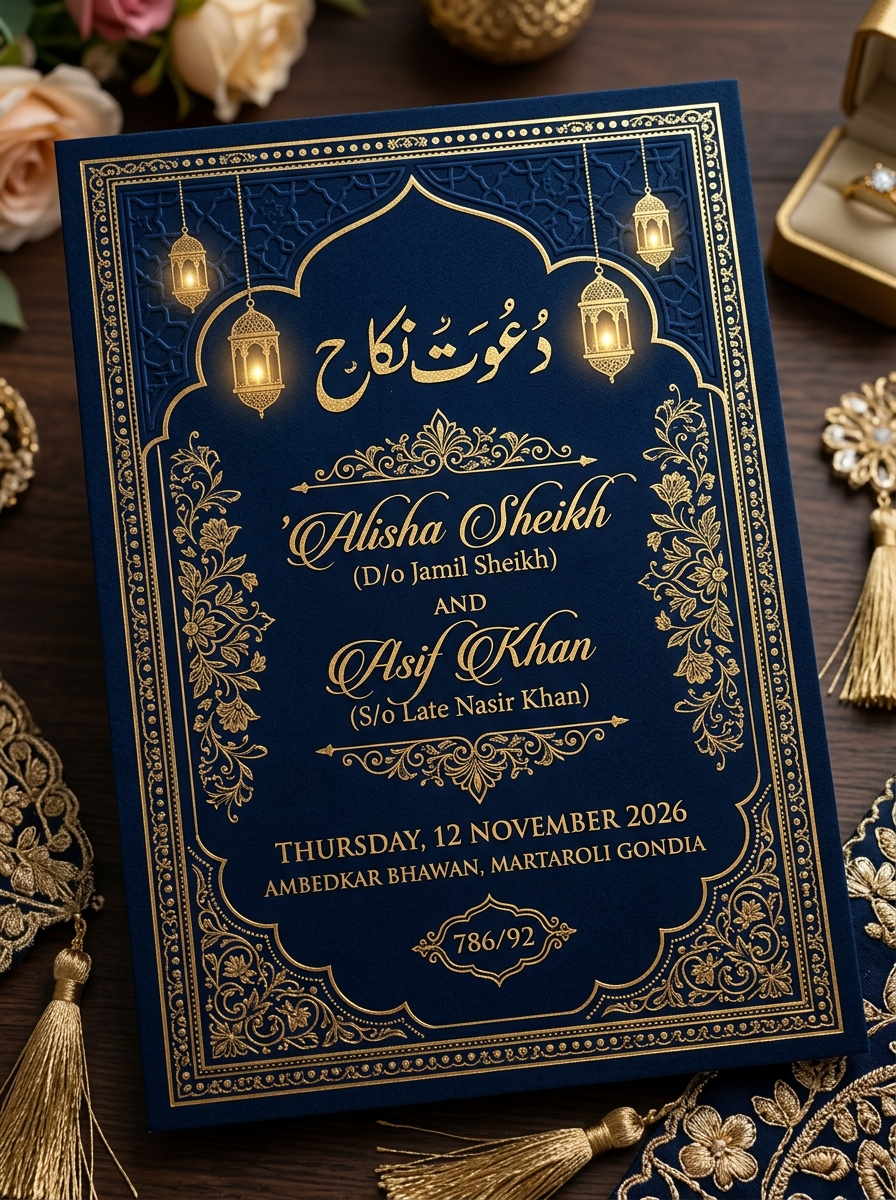
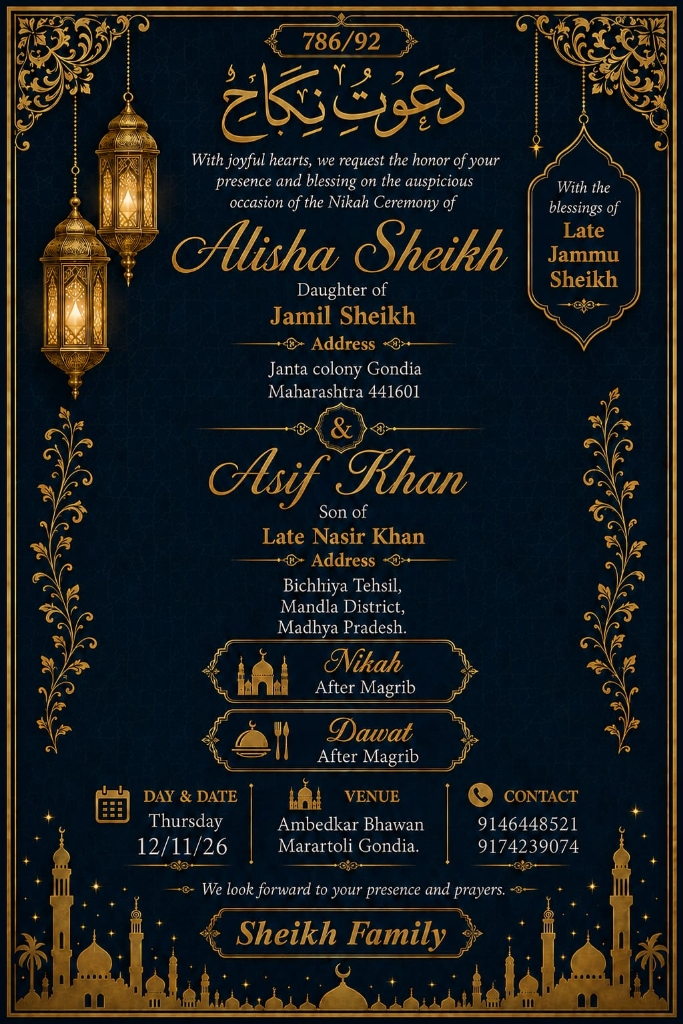
Add exact uploaded invitation card, remove music, fix mobile QR code, add invitation card download options

diff --git a/src/components/ShareSection.jsx b/src/components/ShareSection.jsx
@@ -1,6 +1,6 @@
 import React, { useState } from 'react';
 import { motion } from 'framer-motion';
-import { Share2, QrCode, Copy, Check, MessageCircle, Sparkles } from 'lucide-react';
+import { Share2, QrCode, Copy, Check, MessageCircle, Download } from 'lucide-react';
 import { QRCodeSVG } from 'qrcode.react';
 
 export default function ShareSection({ data, onShare }) {
@@ -52,12 +52,21 @@ export default function ShareSection({ data, onShare }) {
             </p>
 
             <div className="pt-2 space-y-3">
+              <a
+                href="/card.jpg"
+                download="Nikah_Invitation_Card_Alisha_Asif.jpg"
+                className="w-full py-3.5 px-6 rounded-full bg-gradient-to-r from-[#d4af37] via-[#f3e5ab] to-[#c59b27] text-[#060b19] font-sans-ui text-xs font-bold uppercase tracking-wider hover:scale-102 transition-all flex items-center justify-center gap-2 cursor-pointer shadow-md"
+              >
+                <Download className="w-4 h-4" />
+                Download Invitation Card
+              </a>
+
               <button
                 onClick={onShare}
-                className="w-full py-3.5 px-6 rounded-full bg-[#d4af37] text-[#060b19] font-sans-ui text-xs font-bold uppercase tracking-wider hover:bg-[#f3e5ab] transition-all flex items-center justify-center gap-2 cursor-pointer shadow-md"
+                className="w-full py-3.5 px-6 rounded-full bg-[#0a1128] border border-[#d4af37]/50 text-[#f3e5ab] font-sans-ui text-xs font-bold uppercase tracking-wider hover:bg-[#d4af37]/20 transition-all flex items-center justify-center gap-2 cursor-pointer shadow-md"
               >
-                <Share2 className="w-4 h-4" />
-                Share Invitation Link
+                <Share2 className="w-4 h-4 text-[#d4af37]" />
+                Share Website Link
               </button>
 
               <a
@@ -72,10 +81,10 @@ export default function ShareSection({ data, onShare }) {
 
               <button
                 onClick={copyUrl}
-                className="w-full py-3 px-6 rounded-full bg-[#0a1128] border border-[#d4af37]/40 text-[#f3e5ab] font-sans-ui text-xs font-semibold uppercase tracking-wider hover:bg-[#d4af37]/20 transition-all flex items-center justify-center gap-2 cursor-pointer"
+                className="w-full py-3 px-6 rounded-full bg-[#0a1128] border border-[#d4af37]/40 text-[#e2d8c3] font-sans-ui text-xs font-semibold uppercase tracking-wider hover:text-[#d4af37] transition-all flex items-center justify-center gap-2 cursor-pointer"
               >
                 {copied ? <Check className="w-4 h-4 text-green-400" /> : <Copy className="w-4 h-4 text-[#d4af37]" />}
-                {copied ? "Link Copied!" : "Copy Website Link"}
+                {copied ? "Link Copied!" : "Copy Link Text"}
               </button>
             </div>
           </motion.div>
@@ -96,20 +105,21 @@ export default function ShareSection({ data, onShare }) {
               Scan QR Code
             </h3>
 
-            {/* QR Code Container */}
-            <div className="p-4 rounded-2xl bg-white max-w-[200px] mx-auto border-2 border-[#d4af37] shadow-inner">
+            {/* Mobile Responsive High Visibility QR Code Container */}
+            <div className="w-44 h-44 sm:w-52 sm:h-52 mx-auto bg-white p-3 rounded-2xl flex items-center justify-center border-2 border-[#d4af37] shadow-xl overflow-hidden">
               <QRCodeSVG
                 value={currentUrl}
-                size={160}
+                width="100%"
+                height="100%"
                 fgColor="#060b19"
                 bgColor="#FFFFFF"
                 level="H"
-                className="mx-auto"
+                includeMargin={true}
               />
             </div>
 
-            <p className="text-[11px] text-[#e2d8c3]/70 font-sans-ui">
-              Point mobile camera at QR code to instantly open website
+            <p className="text-[11px] text-[#e2d8c3]/80 font-sans-ui pt-1">
+              Scan with mobile phone camera to open invitation website
             </p>
           </motion.div>
         </div>

diff --git a/src/components/Hero.jsx b/src/components/Hero.jsx
@@ -1,6 +1,6 @@
 import React from 'react';
 import { motion } from 'framer-motion';
-import { Calendar, MapPin, Clock, Heart, Sparkles, ChevronDown } from 'lucide-react';
+import { Calendar, MapPin, Clock, Heart, Sparkles, ChevronDown, Download } from 'lucide-react';
 
 export default function Hero({ data }) {
   const scrollToSection = (id) => {
@@ -123,18 +123,20 @@ export default function Hero({ data }) {
           transition={{ delay: 0.6, duration: 0.6 }}
           className="flex flex-wrap items-center justify-center gap-4 mt-8"
         >
-          <button
-            onClick={() => scrollToSection('#venue')}
-            className="px-8 py-3.5 rounded-full bg-gradient-to-r from-[#d4af37] via-[#f3e5ab] to-[#c59b27] text-[#060b19] font-sans-ui text-xs uppercase tracking-widest font-bold shadow-lg hover:shadow-xl hover:scale-105 transition-all cursor-pointer"
+          <a
+            href="/card.jpg"
+            download="Nikah_Invitation_Card_Alisha_Asif.jpg"
+            className="px-8 py-3.5 rounded-full bg-gradient-to-r from-[#d4af37] via-[#f3e5ab] to-[#c59b27] text-[#060b19] font-sans-ui text-xs uppercase tracking-widest font-bold shadow-lg hover:shadow-xl hover:scale-105 transition-all flex items-center gap-2 cursor-pointer"
           >
-            Get Location Directions
-          </button>
+            <Download className="w-4 h-4" />
+            Download Invitation Card
+          </a>
           
           <button
-            onClick={() => scrollToSection('#events')}
+            onClick={() => scrollToSection('#venue')}
             className="px-8 py-3.5 rounded-full bg-[#0a1128]/90 border border-[#d4af37]/50 text-[#f3e5ab] font-sans-ui text-xs uppercase tracking-widest font-semibold hover:bg-[#d4af37]/20 transition-all cursor-pointer"
           >
-            View Event Details
+            Get Location Directions
           </button>
         </motion.div>
 

diff --git a/src/components/Navbar.jsx b/src/components/Navbar.jsx
@@ -1,7 +1,7 @@
 import React, { useState, useEffect } from 'react';
-import { Menu, X, Music, VolumeX, Share2, Settings, Calendar, Heart } from 'lucide-react';
+import { Menu, X, Share2, Settings, Download } from 'lucide-react';
 
-export default function Navbar({ data, isMuted, onToggleAudio, onOpenAdmin, onShare }) {
+export default function Navbar({ data, onOpenAdmin, onShare }) {
   const [isOpen, setIsOpen] = useState(false);
   const [scrolled, setScrolled] = useState(false);
 
@@ -86,15 +86,16 @@ export default function Navbar({ data, isMuted, onToggleAudio, onOpenAdmin, onSh
 
         {/* Right Utility Buttons */}
         <div className="flex items-center gap-2.5">
-          {/* Music Mute Toggle */}
-          <button
-            onClick={onToggleAudio}
-            title={isMuted ? "Play background music" : "Mute background music"}
-            className="p-2 rounded-full bg-[#0a1128]/80 border border-[#d4af37]/30 text-[#d4af37] hover:bg-[#d4af37]/20 transition-all cursor-pointer"
-            aria-label="Toggle Music"
+          {/* Download Card Direct Button */}
+          <a
+            href="/card.jpg"
+            download="Nikah_Invitation_Card_Alisha_Asif.jpg"
+            title="Download Card Image"
+            className="px-3 py-1.5 rounded-full bg-gradient-to-r from-[#d4af37] to-[#c59b27] text-[#060b19] font-sans-ui text-xs font-bold uppercase tracking-wider flex items-center gap-1.5 shadow-md hover:scale-105 transition-all"
           >
-            {isMuted ? <VolumeX className="w-4 h-4" /> : <Music className="w-4 h-4 animate-bounce" />}
-          </button>
+            <Download className="w-3.5 h-3.5" />
+            <span className="hidden sm:inline">Download Card</span>
+          </a>
 
           {/* Share Button */}
           <button

diff --git a/src/App.jsx b/src/App.jsx
@@ -14,7 +14,6 @@ import Guestbook from './components/Guestbook';
 import Gallery from './components/Gallery';
 import ContactSection from './components/ContactSection';
 import ShareSection from './components/ShareSection';
-import AudioPlayer from './components/AudioPlayer';
 import AdminDrawer from './components/AdminDrawer';
 import Footer from './components/Footer';
 
@@ -28,7 +27,6 @@ export default function App() {
   });
 
   const [hasEntered, setHasEntered] = useState(false);
-  const [isMuted, setIsMuted] = useState(true);
   const [isAdminOpen, setIsAdminOpen] = useState(false);
 
   useEffect(() => {
@@ -65,9 +63,6 @@ export default function App() {
 
   return (
     <div className="min-h-screen bg-[#060b19] text-[#fbf8f3] relative font-sans-ui selection:bg-[#d4af37]/30 selection:text-[#f3e5ab]">
-      {/* Background Music Player */}
-      <AudioPlayer isMuted={isMuted} />
-
       {/* Cinematic Opening Splash Screen */}
       {!hasEntered && (
         <WelcomeScreen
@@ -82,8 +77,6 @@ export default function App() {
           {/* Top Sticky Navigation */}
           <Navbar
             data={weddingData}
-            isMuted={isMuted}
-            onToggleAudio={() => setIsMuted(!isMuted)}
             onOpenAdmin={() => setIsAdminOpen(true)}
             onShare={handleShare}
           />

diff --git a/src/components/AdminDrawer.jsx b/src/components/AdminDrawer.jsx
@@ -197,13 +197,14 @@ export default function AdminDrawer({ isOpen, onClose, data, onUpdateData, onRes
 
           {/* Footer Buttons */}
           <div className="pt-6 border-t border-[#d4af37]/30 flex flex-col gap-2">
-            <button
-              onClick={exportConfig}
-              className="w-full py-2.5 rounded-xl bg-[#d4af37] text-[#060b19] font-bold text-xs uppercase tracking-wider hover:bg-[#f3e5ab] flex items-center justify-center gap-2 cursor-pointer"
+            <a
+              href="/card.jpg"
+              download="Nikah_Invitation_Card_Alisha_Asif.jpg"
+              className="w-full py-2.5 rounded-xl bg-gradient-to-r from-[#d4af37] via-[#f3e5ab] to-[#c59b27] text-[#060b19] font-bold text-xs uppercase tracking-wider hover:scale-102 transition-all flex items-center justify-center gap-2 cursor-pointer shadow-md"
             >
               <Download className="w-4 h-4" />
-              Export JSON Config
-            </button>
+              Download Official Invitation Card
+            </a>
             <button
               onClick={onResetData}
               className="w-full py-2.5 rounded-xl bg-[#0a1128] border border-[#d4af37]/30 text-[#e2d8c3] text-xs uppercase tracking-wider hover:text-[#d4af37] flex items-center justify-center gap-2 cursor-pointer"
